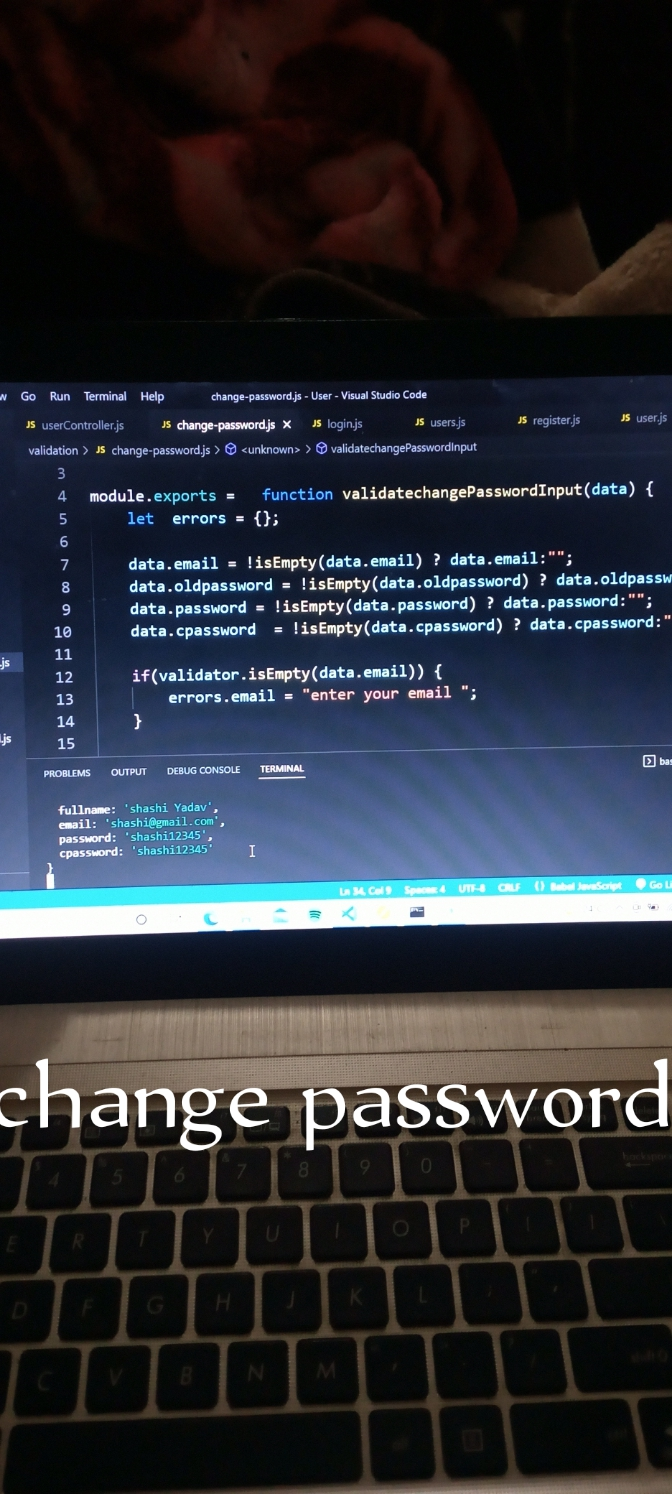
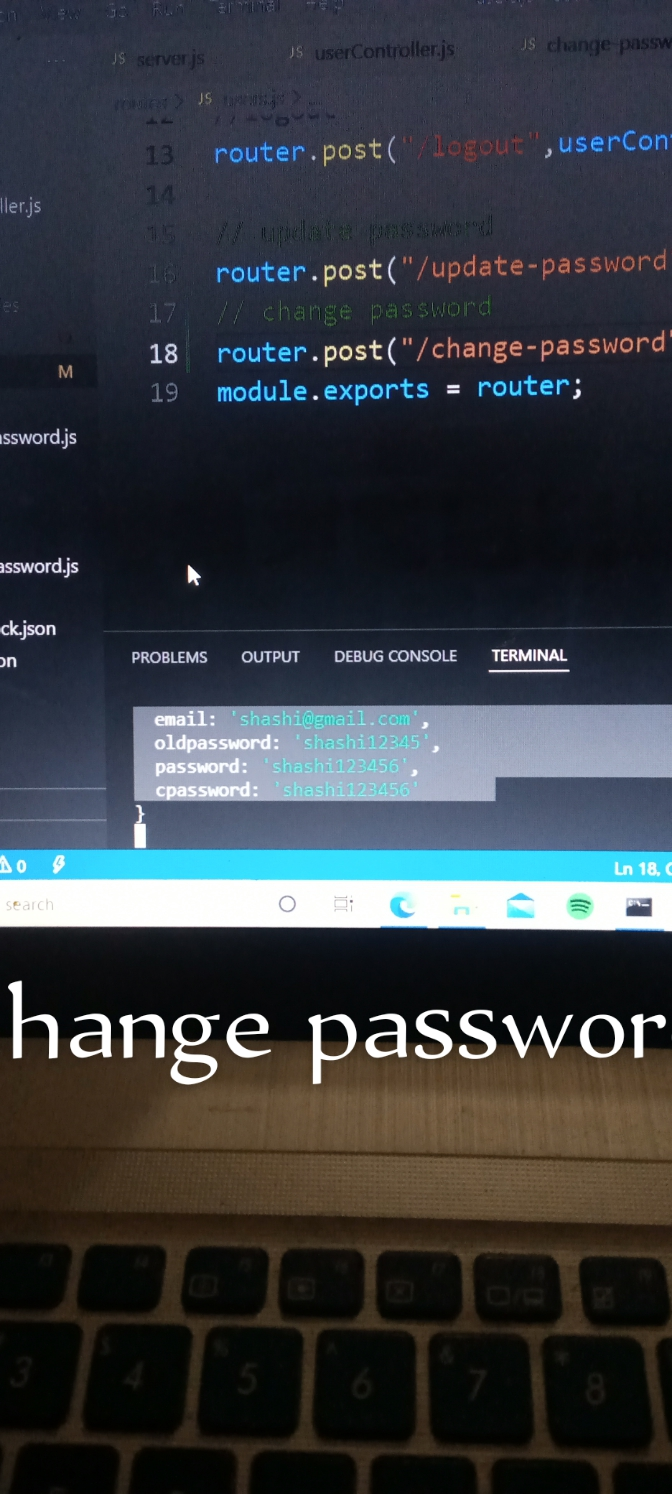
change

diff --git a/routes/users.js b/routes/users.js
@@ -14,4 +14,6 @@ router.post("/logout",userController.logout);
 
 // update password
 router.post("/update-password", userController.update_password);
+// change password
+router.post("/change-password", userController.change_password)
 module.exports = router;
